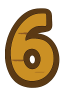
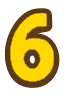
flag display in digits too

diff --git a/index.html b/index.html
@@ -231,15 +231,7 @@
                 this.questFlagIcon.setDepth(1000);
                 this.questFlagIcon.setVisible(false);
 
-                this.questCountText = this.add.text(760, 100, '4', {
-                    fontSize: '72px', // 50% bigger (was 48px)
-                    fill: '#FFD700',
-                    fontWeight: 'bold'
-                }).setOrigin(0.5);
-                this.questCountBaseScale = this.questCountText.scaleX;
-                this.questCountText.setScrollFactor(0);
-                this.questCountText.setDepth(1000);
-                this.questCountText.setVisible(false);
+                this.setupQuestDigitDisplay();
 
                 // Create cannonball UI with new positioning - rightmost slot centered at 450
                 this.cannonballUI = [];
@@ -305,7 +297,7 @@
                 this.uiElements = [
                     this.topUI, this.bottomUI,
                     this.heightLabel, ...this.heightDigits, this.meterLabel,
-                    this.questFlagIcon, this.questCountText, ...this.cannonballPlaceholders, ...this.cannonballUI, ...this.cannonballUIFlags, ...this.cooldownGraphics,
+                    this.questFlagIcon, this.questDigit, ...this.cannonballPlaceholders, ...this.cannonballUI, ...this.cannonballUIFlags, ...this.cooldownGraphics,
                     this.helpButton
                 ];
 
@@ -803,6 +795,55 @@
                 return this.superShotReady;
             }
 
+            setupQuestDigitDisplay() {
+                const questDigitX = 760; // Same position as the old text
+                const questDigitY = 100;
+                const digitWidth = 36; // Same size as height digits
+                const digitHeight = 54; // Same size as height digits
+
+                // Center the digit vertically like the height display
+                const digitCenterY = questDigitY - (digitHeight / 2);
+
+                // Create single quest count digit sprite
+                this.questDigit = this.add.image(questDigitX, digitCenterY, 'digit_4'); // Start with 4
+                this.questDigit.setOrigin(0.5, 0); // Center horizontally, top-align vertically
+                this.questDigit.setScrollFactor(0);
+                this.questDigit.setDepth(1000);
+                this.questDigit.setDisplaySize(digitWidth, digitHeight);
+                this.questDigit.setVisible(false); // Hidden initially like the quest system
+
+                // Store the base scale for animations (like the original quest system)
+                this.questDigitBaseScale = this.questDigit.scaleX;
+
+                // Store config for easy access
+                this.questDigitConfig = {
+                    x: questDigitX,
+                    y: digitCenterY,
+                    width: digitWidth,
+                    height: digitHeight
+                };
+
+                // Initialize
+                this.currentDisplayedQuestCount = -1; // Force initial update
+            }
+
+            updateQuestDigitDisplay(count) {
+                // Skip update if count hasn't changed (performance optimization)
+                if (count === this.currentDisplayedQuestCount) {
+                    return;
+                }
+
+                this.currentDisplayedQuestCount = count;
+
+                // Clamp to single digit (0-9)
+                const digitValue = Math.max(0, Math.min(9, count));
+
+                // Update the digit texture
+                this.questDigit.setTexture(`digit_${digitValue}`);
+            }
+
+            // Updated quest system methods to use sprites instead of text
+
             startNewQuest() {
                 // Select a random flag type for the new quest
                 const flagTypes = ['flag_milady', 'flag_bayc', 'flag_noun', 'flag_doodle'];
@@ -818,8 +859,9 @@
                 this.questFlagIcon.setTexture(this.questTargetFlag);
                 this.questFlagIcon.setVisible(true);
 
-                this.questCountText.setText(this.questTargetCount.toString());
-                this.questCountText.setVisible(true);
+                // Update digit display instead of text
+                this.updateQuestDigitDisplay(this.questTargetCount);
+                this.questDigit.setVisible(true);
 
                 this.questLevel++;
             }
@@ -832,9 +874,9 @@
 
                     console.log(`🎯 Quest progress: ${this.questCurrentCount}/${this.questTargetCount} ${flagType} collected`);
 
-                    // Visual feedback - use the correct base scales
+                    // Visual feedback - use the digit scale instead of text scale
                     const targetFlagScale = this.questFlagBaseScale * 1.4;
-                    const targetCountScale = this.questCountBaseScale * 1.4;
+                    const targetDigitScale = this.questDigitBaseScale * 1.4;
 
                     this.tweens.add({
                         targets: this.questFlagIcon,
@@ -846,16 +888,16 @@
                     });
 
                     this.tweens.add({
-                        targets: this.questCountText,
-                        scaleX: targetCountScale,
-                        scaleY: targetCountScale,
+                        targets: this.questDigit,
+                        scaleX: targetDigitScale,
+                        scaleY: targetDigitScale,
                         duration: 200,
                         ease: 'Back.easeOut',
                         yoyo: true
                     });
 
-                    // Update UI
-                    this.questCountText.setText(remaining.toString());
+                    // Update digit display instead of text
+                    this.updateQuestDigitDisplay(remaining);
 
                     // Check if quest is complete
                     if (remaining <= 0) {
@@ -1175,7 +1217,6 @@
 
                 // Hide quest UI initially
                 this.questFlagIcon.setVisible(false);
-                this.questCountText.setVisible(false);
 
                 // Reset cloud system
                 this.cloudGridData.clear();
@@ -1897,6 +1938,7 @@
                 // Update sprite-based display instead of text
                 this.updateSpriteHeightDisplay(heightInMeters);
             }
+
             updateCamera() {
                 if (this.gameState !== 'playing') return;
 
